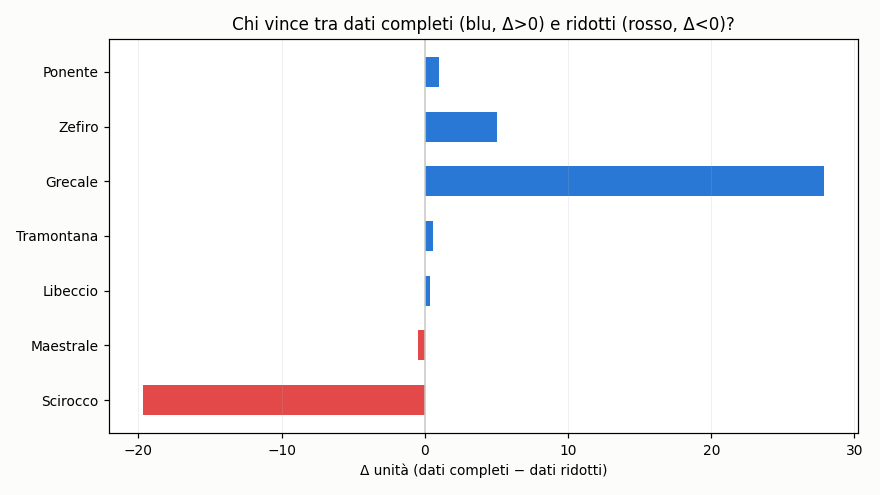
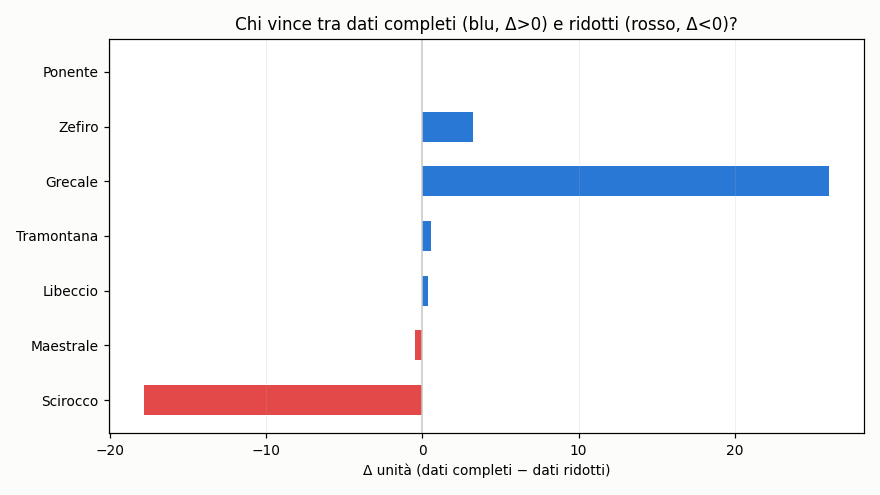
aggiornamento 2026-07-27 14:26 UTC

diff --git a/README.md b/README.md
@@ -37,9 +37,9 @@ scala in unità). Non indichiamo quale.
 
 ## Grafici
 
-![Coppie: dati completi vs ridotti](https://raw.githubusercontent.com/Kitem19/ippica-track-record/main/charts/equity_pairs.png?v=3a090758)
+![Coppie: dati completi vs ridotti](https://raw.githubusercontent.com/Kitem19/ippica-track-record/main/charts/equity_pairs.png?v=37dd821a)
 
-![Delta per coppia](https://raw.githubusercontent.com/Kitem19/ippica-track-record/main/charts/coppie_delta.png?v=757a4c42)
+![Delta per coppia](https://raw.githubusercontent.com/Kitem19/ippica-track-record/main/charts/coppie_delta.png?v=3648db19)
 
 ### Come leggere i grafici
 
@@ -56,34 +56,34 @@ scala in unità). Non indichiamo quale.
 
 _Poche giornate: numeri ancora rumorosi, si conclude a fine fase (31/7)._
 
-- **Scirocco**: dati ridotti avanti di 19,7u — qui gli extra non aiutano
+- **Scirocco**: dati ridotti avanti di 17,8u — qui gli extra non aiutano
 - **Maestrale**: in sostanziale pareggio — troppo presto per dire
 - **Libeccio**: in sostanziale pareggio — troppo presto per dire
 - **Tramontana**: in sostanziale pareggio — troppo presto per dire
-- **Grecale**: dati completi avanti di 27,9u
-- **Zefiro**: dati completi avanti di 5,0u
+- **Grecale**: dati completi avanti di 26,0u
+- **Zefiro**: dati completi avanti di 3,2u
 - **Ponente**: in sostanziale pareggio — troppo presto per dire
 
 ## Classifica (conteggio ufficiale)
 
 | Sistema | Cassa (u) | P/L (u) | Selezioni | Escluse | Stato |
 |---|---|---|---|---|---|
-| Grecale | 27,6 | +7,6 | 304 | 4 | 🟢 |
-| Scirocco-B | 19,6 | -0,4 | 240 | 0 | 🟢 |
-| Zefiro | 4,6 | -15,4 | 263 | 8 | 🟢 |
-| Ponente | 0,0 | -20,0 | 211 | 28 | 🟢 |
-| Maestrale-B | 0,0 | -20,0 | 100 | 237 | 🛑 |
-| Scirocco | 0,0 | -20,1 | 80 | 265 | 🛑 |
-| Grecale-B | 0,0 | -20,2 | 137 | 173 | 🛑 |
-| Tramontana | 0,0 | -20,3 | 45 | 308 | 🛑 |
+| Grecale | 25,8 | +5,8 | 305 | 4 | 🟢 |
+| Scirocco-B | 17,8 | -2,2 | 241 | 0 | 🟢 |
+| Zefiro | 2,8 | -17,2 | 264 | 8 | 🟢 |
+| Maestrale-B | 0,0 | -20,0 | 100 | 238 | 🛑 |
+| Scirocco | 0,0 | -20,1 | 80 | 266 | 🛑 |
+| Grecale-B | 0,0 | -20,2 | 137 | 174 | 🛑 |
+| Tramontana | 0,0 | -20,3 | 45 | 309 | 🛑 |
 | Zefiro-B | 0,0 | -20,5 | 143 | 72 | 🛑 |
-| Maestrale | 0,0 | -20,5 | 104 | 257 | 🛑 |
-| Libeccio | 0,0 | -20,6 | 181 | 166 | 🛑 |
-| Tramontana-B | 0,0 | -20,8 | 324 | 13 | 🛑 |
+| Maestrale | 0,0 | -20,5 | 104 | 258 | 🛑 |
+| Libeccio | 0,0 | -20,6 | 181 | 167 | 🛑 |
+| Tramontana-B | 0,0 | -20,8 | 324 | 14 | 🛑 |
 | Libeccio-B | 0,0 | -20,9 | 119 | 180 | 🛑 |
-| Ponente-B | 0,0 | -21,0 | 63 | 85 | 🛑 |
+| Ponente-B | 0,0 | -21,0 | 63 | 86 | 🛑 |
+| Ponente | 0,0 | -21,0 | 212 | 28 | 🛑 |
 
-_Aggiornato: 27/07 16:21_
+_Aggiornato: 27/07 16:26_
 ---
 *Nessuna delle informazioni qui pubblicate costituisce consiglio di gioco.
 Il gioco può causare dipendenza — 18+.*
